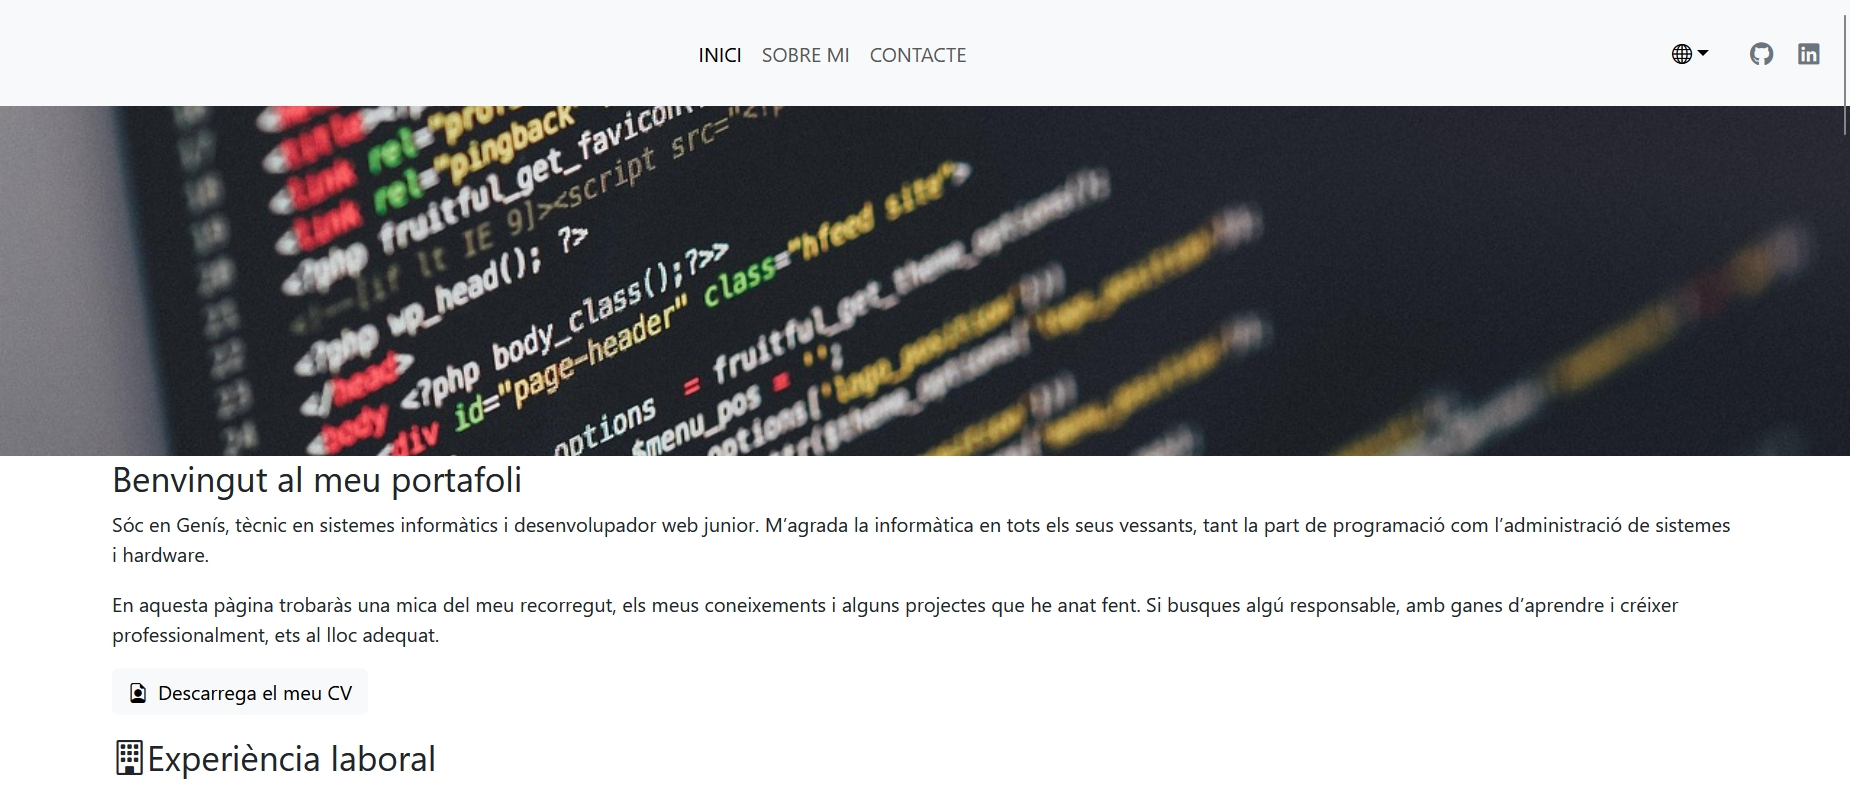
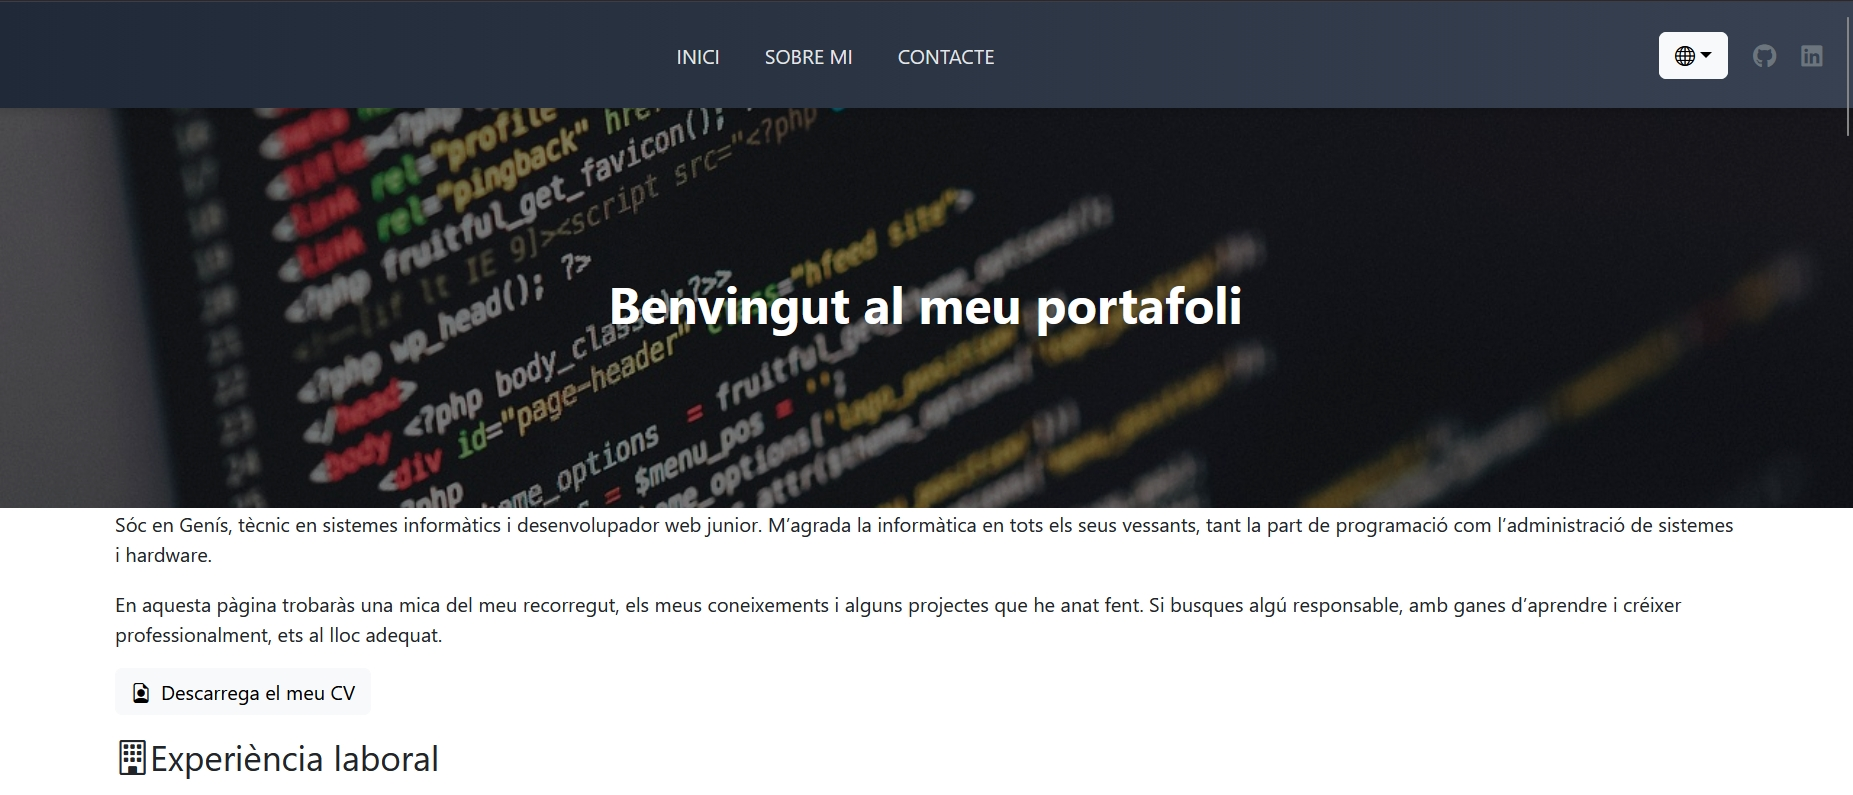
Css millores
Ok

diff --git a/src/styles/styles.css b/src/styles/styles.css
@@ -25,6 +25,7 @@
     background: #f8f9fa;
     padding: 40px 0 20px;
     border-top: 1px solid #eee;
+
 }
 
 .footer-brand {
@@ -82,3 +83,112 @@
     padding-top: 20px;
     border-top: 1px solid #eee;
 }
+
+/*PROVES */
+.navbar {
+    background: linear-gradient(90deg, #1f2937, #374151);
+    box-shadow: 0 2px 10px rgba(0,0,0,0.15);
+}
+body {
+    padding-top: 85px;
+}
+
+
+.navbar-toggler {
+    border-color: rgba(255,255,255,0.5);
+}
+
+.navbar-toggler-icon {
+    filter: invert(1);
+}
+
+
+.navbar .nav-link {
+    color: #e5e7eb !important;
+    font-weight: 500;
+    position: relative;
+    margin: 0 10px;
+}
+
+.navbar .nav-link:hover {
+    color: #ffffff !important;
+}
+
+.navbar .nav-link.active-link {
+    font-weight: 700;
+}
+
+.navbar .nav-link.active-link::after {
+    content: "";
+    position: absolute;
+    bottom: -6px;
+    left: 0;
+    width: 100%;
+    height: 2px;
+    background: #ef4444;
+}
+
+.banner-wrapper {
+    position: relative;
+}
+
+.banner {
+    width: 100%;
+    height: 320px;
+    object-fit: cover;
+    filter: brightness(0.55);
+}
+
+.banner-text {
+    position: absolute;
+    top: 50%;
+    left: 50%;
+    transform: translate(-50%, -50%);
+    color: white;
+    text-align: center;
+}
+
+.banner-text h1 {
+    font-size: 2.5rem;
+    font-weight: 700;
+}
+
+
+
+.banner-text {
+    position: absolute;
+    top: 50%;
+    left: 50%;
+    transform: translate(-50%, -50%);
+    color: white;
+    text-align: center;
+    padding: 0 20px;
+    width: 100%;
+    max-width: 900px;
+}
+
+.banner-text h1 {
+    font-size: 2.5rem;
+    font-weight: 700;
+}
+
+
+
+.card {
+    border: none;
+    border-radius: 12px;
+    box-shadow: 0 10px 25px rgba(0,0,0,0.08);
+}
+
+.card:hover {
+    transform: translateY(-6px);
+    box-shadow: 0 15px 35px rgba(0,0,0,0.15);
+}
+
+.card img {
+    border-top-left-radius: 12px;
+    border-top-right-radius: 12px;
+}
+
+
+

diff --git a/src/Pages/Inici.js b/src/Pages/Inici.js
@@ -33,11 +33,16 @@ const Inici = () => {
             <Header/>
 
 
-            <img className="banner" src={img1} alt="Imagen de Japón"/>
+            <div className="banner-wrapper">
+                <img className="banner" src={img1} alt="" />
+                <div className="banner-text">
+                    <h1>{t('home.title')}</h1>
+                </div>
+            </div>
+
             <div className="container">
                 <div className="inici">
 
-                    <h3>{t('home.title')}</h3>
                     <p>
                         {t('home.presentation1')}
                     </p>
